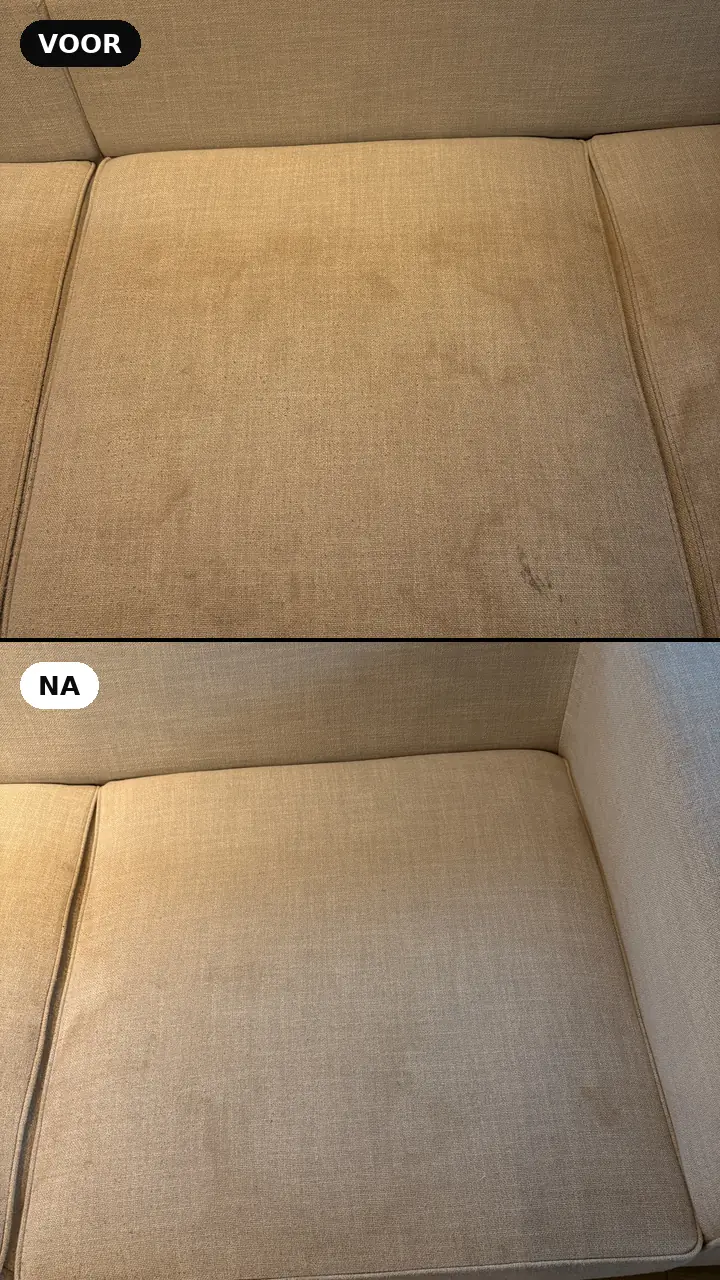
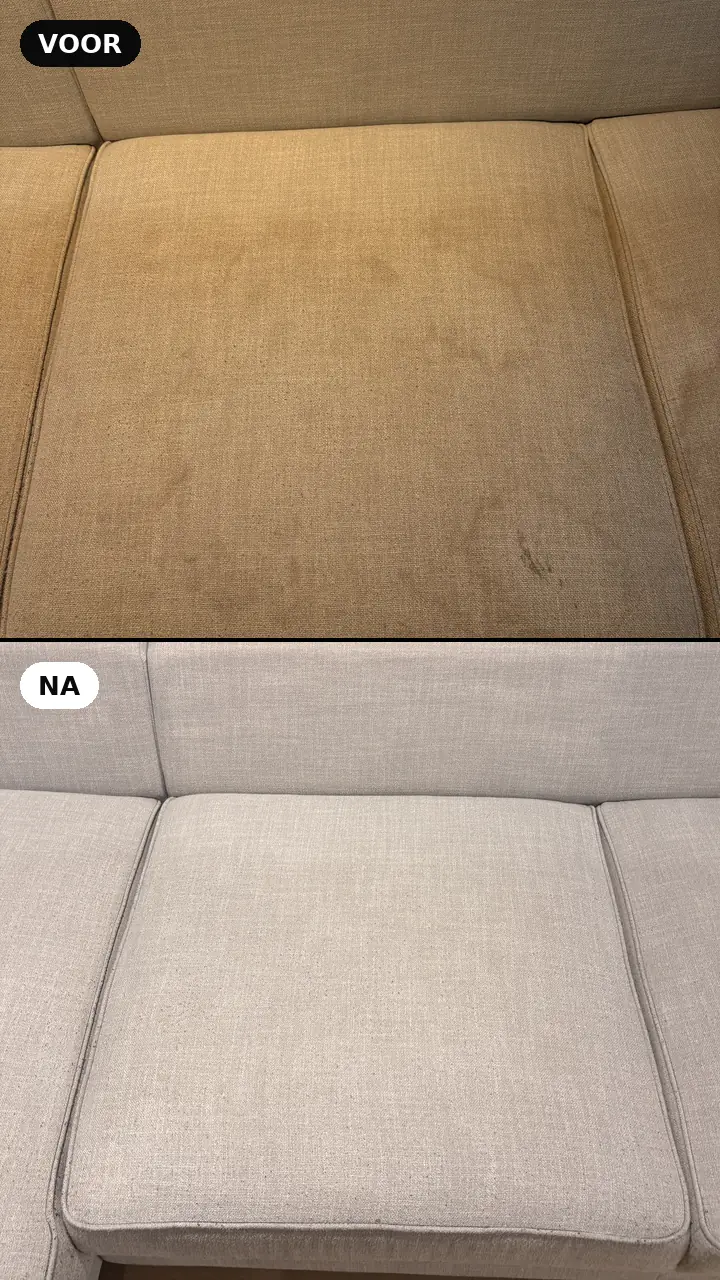
Voor/na-paren gecorrigeerd: zitkussen en hoekkussen, lichte zetel verwijderd
Claude-Session: https://claude.ai/code/session_01C3ghCNKhEDfJiksN47AB3s

diff --git a/index.html b/index.html
@@ -808,6 +808,10 @@ body.menu-open{overflow:hidden}
         <img src="media/r-ba-zitkussen.webp" alt="Zitkussen · voor en na — resultaat van The Cleaning Company" loading="lazy" decoding="async" width="720" height="1280">
         <span class="tag">Zitkussen · voor &amp; na</span>
       </button>
+      <button type="button" class="res" data-type="image" data-src="media/r-ba-hoekkussen.webp" aria-label="Foto: Hoekkussen · voor en na">
+        <img src="media/r-ba-hoekkussen.webp" alt="Hoekkussen · voor en na — resultaat van The Cleaning Company" loading="lazy" decoding="async" width="720" height="1280">
+        <span class="tag">Hoekkussen · voor &amp; na</span>
+      </button>
       <button type="button" class="res" data-type="video" data-src="media/v-tapijt-rond.mp4" aria-label="Video: Rond hoogpolig tapijt">
         <video muted loop playsinline preload="none" poster="media/v-tapijt-rond.jpg" data-src="media/v-tapijt-rond.mp4"></video>
         <span class="tag">Rond hoogpolig tapijt</span><span class="vid-badge" aria-hidden="true"><svg viewBox="0 0 24 24"><path d="M8 5v14l11-7z"/></svg></span>
@@ -827,10 +831,6 @@ body.menu-open{overflow:hidden}
       <button type="button" class="res" data-type="image" data-src="media/r-ba-hoekzetel.webp" aria-label="Foto: Hoekzetel · voor en na">
         <img src="media/r-ba-hoekzetel.webp" alt="Hoekzetel · voor en na — resultaat van The Cleaning Company" loading="lazy" decoding="async" width="720" height="1280">
         <span class="tag">Hoekzetel · voor &amp; na</span>
-      </button>
-      <button type="button" class="res" data-type="image" data-src="media/r-ba-witte-zetel.webp" aria-label="Foto: Lichte zetel · voor en na">
-        <img src="media/r-ba-witte-zetel.webp" alt="Lichte zetel · voor en na — resultaat van The Cleaning Company" loading="lazy" decoding="async" width="720" height="1280">
-        <span class="tag">Lichte zetel · voor &amp; na</span>
       </button>
       <button type="button" class="res" data-type="image" data-src="media/r-vuil-water.webp" aria-label="Foto: Dit kwam eruit…">
         <img src="media/r-vuil-water.webp" alt="Dit kwam eruit… — resultaat van The Cleaning Company" loading="lazy" decoding="async" width="720" height="1280">
